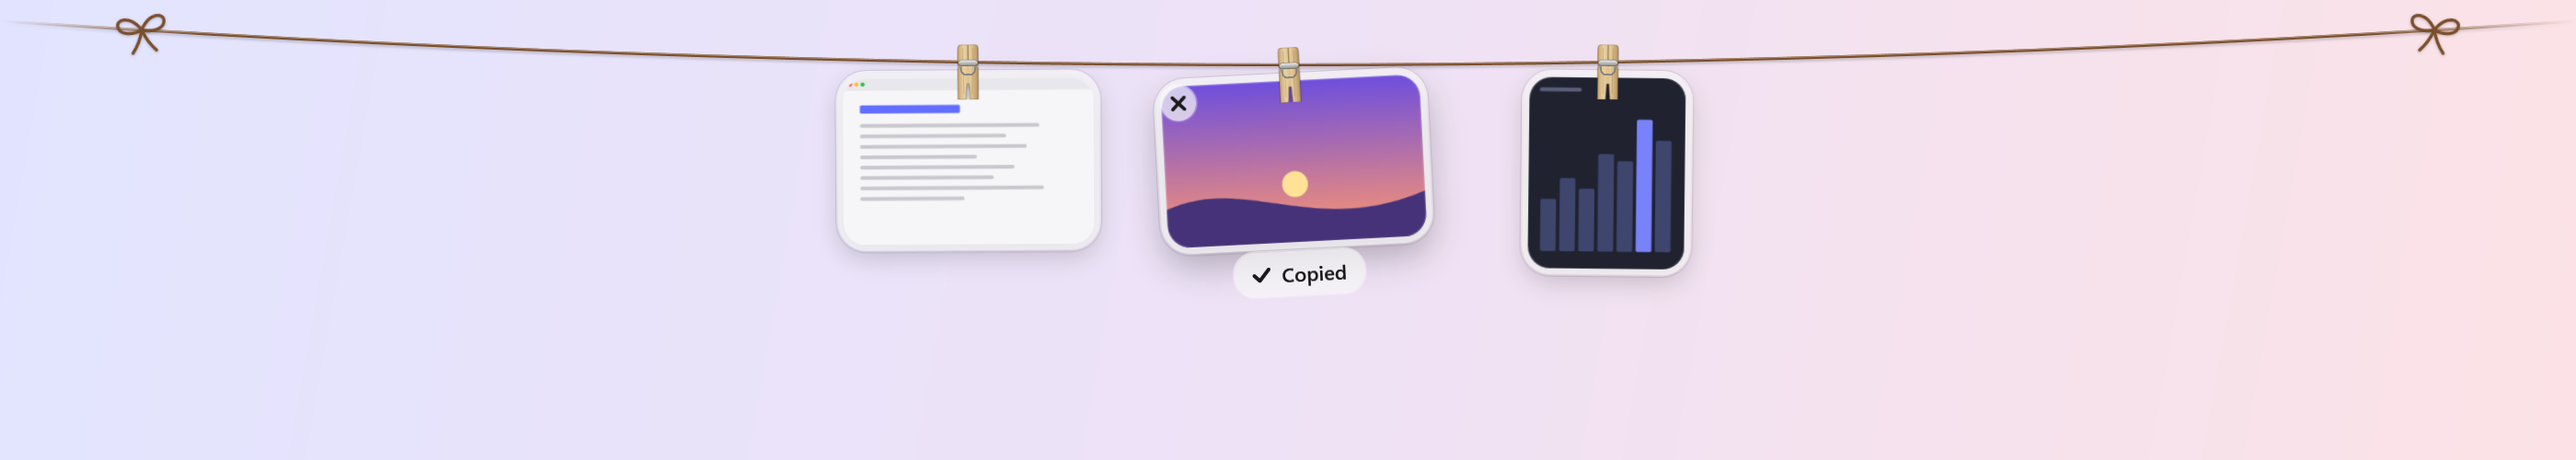
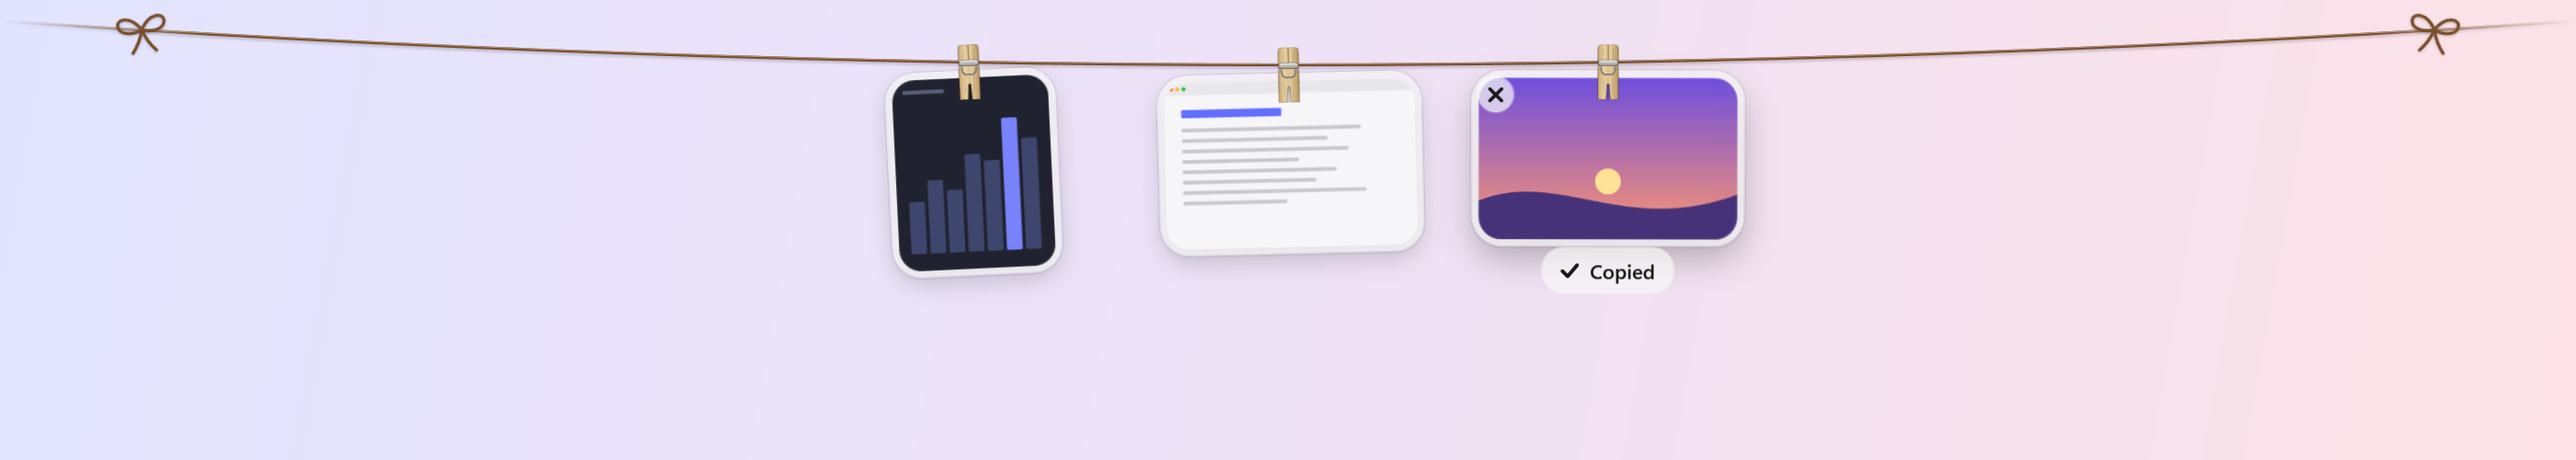
Photos stay where you put them; even spacing is an option
Dragging a photo along the line leaves it exactly where it is dropped, and
its place is remembered across launches as a fraction of the screen width.
A new capture takes the nearest free place to the middle. The setting
"Arrange photos evenly along the line", off by default, restores the
Tendedero behaviour where the others make room.

Changed region(s): [[0.3107, 0.15, 0.6836, 0.63]]

diff --git a/src/Clothesline/UI/LineCanvas.cs b/src/Clothesline/UI/LineCanvas.cs
@@ -18,6 +18,7 @@ public sealed class LineCanvas : Canvas
     private readonly Path _ropeShadow, _ropeCore, _ropeHighlight;
     private Path? _bowLeft, _bowRight;
     private PeggedControl? _held;
+    private int _topZ = 10;
     private bool _ropeDrag;
     private readonly Border _hint;
     private readonly Tween _hintOpacity = new(0);
@@ -194,10 +195,14 @@ public sealed class LineCanvas : Canvas
         // Falling cards keep their slot until they are removed, so the others do not jump early.
         var live = _cards.Where(c => !c.Item.Falling).ToList();
         int count = live.Count;
+        bool even = Settings.Current.AutoArrange;
         for (int i = 0; i < count; i++)
         {
             var card = live[i];
-            double x = Layout.X(i, count, _width);
+            card.RopeYAt ??= x => Layout.RopeY(x, _width);
+            // Spread evenly, or where you put it. A new photo takes the nearest free place to the middle.
+            double x = even ? Layout.X(i, count, _width) : (card.Item.Spot ?? AssignSpot(card, live)) * _width;
+            x = Math.Clamp(x, Layout.CardWidth / 2, Math.Max(Layout.CardWidth / 2, _width - Layout.CardWidth / 2));
             double ropeY = Layout.RopeY(x, _width);
             bool fresh = double.IsNaN(GetTop(card));
             SetTop(card, ropeY - Layout.PinAbove);
@@ -208,6 +213,26 @@ public sealed class LineCanvas : Canvas
         _hint.Measure(new Size(double.PositiveInfinity, double.PositiveInfinity));
         SetLeft(_hint, mid - _hint.DesiredSize.Width / 2);
         SetTop(_hint, Layout.RopeY(mid, _width) + 34 - _hint.DesiredSize.Height / 2);
+    }
+
+    /// <summary>The nearest place to the middle of the line with room for a card, remembered on the photo.</summary>
+    private double AssignSpot(PeggedControl card, List<PeggedControl> live)
+    {
+        var taken = live.Where(c => c != card && c.Item.Spot is not null).Select(c => c.Item.Spot!.Value * _width).ToList();
+        double half = Layout.CardWidth / 2;
+        double best = _width / 2;
+        for (int step = 0; step < 40; step++)
+        {
+            foreach (double candidate in new[] { _width / 2 + step * Layout.Spacing, _width / 2 - step * Layout.Spacing })
+            {
+                if (candidate < half || candidate > _width - half) continue;
+                if (taken.All(t => Math.Abs(t - candidate) >= Layout.Spacing * 0.9)) { best = candidate; goto found; }
+            }
+        }
+        found:
+        double fraction = Math.Clamp(best / _width, 0, 1);
+        _line.SetSpot(card.Item.Id, fraction, save: true);
+        return fraction;
     }
 
     private void DrawRope()
@@ -252,7 +277,15 @@ public sealed class LineCanvas : Canvas
     {
         if (_held != card) return;
         double half = Layout.CardWidth / 2;
-        card.SetTargetX(Math.Clamp(centerX, half, Math.Max(half, _width - half)), snap: true);
+        centerX = Math.Clamp(centerX, half, Math.Max(half, _width - half));
+        card.SetTargetX(centerX, snap: true);
+        if (!Settings.Current.AutoArrange)
+        {
+            // It stays where you put it; nothing else moves.
+            _line.SetSpot(card.Item.Id, centerX / _width, save: false);
+            StartTicking();
+            return;
+        }
         var live = _cards.Where(c => !c.Item.Falling).ToList();
         int from = live.IndexOf(card);
         if (from < 0) return;
@@ -272,7 +305,9 @@ public sealed class LineCanvas : Canvas
     {
         if (_held != card) return;
         _held = null;
-        SetZIndex(card, 2);
+        // The last one moved lies on top of any it was dropped against.
+        SetZIndex(card, Settings.Current.AutoArrange ? 2 : ++_topZ);
+        if (!Settings.Current.AutoArrange) _line.SetSpot(card.Item.Id, card.TargetX / _width, save: true);
         Relayout(snap: false);
         StartTicking();
     }

diff --git a/src/Clothesline/Core/Line.cs b/src/Clothesline/Core/Line.cs
@@ -26,6 +26,8 @@ public sealed class Pegged
     /// <summary>Kept on purpose: never pushed off by newer captures.</summary>
     public bool Pinned { get; set; }
     public DateTime HungAt { get; } = DateTime.Now;
+    /// <summary>Where it hangs along the line, as a fraction of the width, when photos are not arranged automatically.</summary>
+    public double? Spot { get; set; }
 
     public Pegged(string path, Thumbnail thumb)
     {
@@ -147,6 +149,15 @@ public sealed class Line
             bool quiet = n > 0;
             Later(0.06 * n, () => Drop(id, quiet));
         }
+    }
+
+    /// <summary>Remembers where a photo was put by hand.</summary>
+    public void SetSpot(Guid id, double fraction, bool save)
+    {
+        var item = Find(id);
+        if (item is null) return;
+        item.Spot = Math.Clamp(fraction, 0, 1);
+        if (save) Save();
     }
 
     /// <summary>Moves a photo to another place on the line. `liveIndex` counts only photos that are not falling.</summary>
@@ -341,6 +352,7 @@ public sealed class Line
         if (!_persist) return;
         Settings.Current.Pegged = _items.Where(i => !i.Falling).Select(i => i.Path).ToList();
         Settings.Current.PinnedPaths = _items.Where(i => !i.Falling && i.Pinned).Select(i => i.Path).ToList();
+        Settings.Current.Spots = _items.Where(i => !i.Falling && i.Spot is not null).ToDictionary(i => i.Path, i => i.Spot!.Value, StringComparer.OrdinalIgnoreCase);
         Settings.Current.Save();
     }
 
@@ -351,6 +363,7 @@ public sealed class Line
             {
                 item.Used = true;
                 item.Pinned = Settings.Current.PinnedPaths.Contains(path, StringComparer.OrdinalIgnoreCase);
+                if (Settings.Current.Spots.TryGetValue(path, out var spot)) item.Spot = spot;
             }
     }
 

diff --git a/src/Clothesline/UI/Strings.cs b/src/Clothesline/UI/Strings.cs
@@ -89,6 +89,8 @@ public static class Strings
     public static string RopeColor => L("Line colour");
     public static string PegStyle => L("Clothespins");
     public static string Bows => L("Bows at the ends of the line");
+    public static string AutoArrange => L("Arrange photos evenly along the line");
+    public static string AutoArrangeTip => L("Off, each photo stays where you put it");
     public static string Appearance => L("Appearance");
     public static string LanguageLabel => L("Language");
     public static string Auto => L("Follow Windows");
@@ -174,6 +176,8 @@ public static class Strings
         ["Line colour"] = "لون الحبل",
         ["Clothespins"] = "المشابك",
         ["Bows at the ends of the line"] = "عُقد على طرفَي الحبل",
+        ["Arrange photos evenly along the line"] = "ترتيب الصور بالتساوي على طول الحبل",
+        ["Off, each photo stays where you put it"] = "عند الإيقاف، تبقى كل صورة حيث وضعتها",
         ["Appearance"] = "السمة",
         ["Language"] = "اللغة",
         ["Follow Windows"] = "حسب Windows",

diff --git a/src/Clothesline/UI/PeggedControl.cs b/src/Clothesline/UI/PeggedControl.cs
@@ -271,6 +271,9 @@ public sealed class PeggedControl : Canvas
     }
 
     public double CenterX => _x.Value;
+    public double TargetX => _x.Target;
+    /// <summary>The rope sags, so the card follows it up and down as it moves along.</summary>
+    public Func<double, double>? RopeYAt { get; set; }
 
     /// <summary>The card's rectangle in canvas coordinates, ignoring the tilt. Used to decide where the pointer counts.</summary>
     public Rect CardRect
@@ -367,6 +370,12 @@ public sealed class PeggedControl : Canvas
         _copiedOpacity.Step(dt); _copiedOffset.Step(dt); _shadow.Step(dt);
 
         SetLeft(this, _x.Value - Layout.CardWidth / 2);
+        if (RopeYAt is not null)
+        {
+            double ropeY = RopeYAt(_x.Value);
+            SetTop(this, ropeY - Layout.PinAbove);
+            Height = Layout.PanelHeight - ropeY;
+        }
         _rotate.Angle = _swing.Value + Item.Tilt;
         _drop.Y = _arrive.Value;
         Opacity = Item.Falling || Item.Flying ? 0 : _opacity.Value;

diff --git a/src/Clothesline/Core/Settings.cs b/src/Clothesline/Core/Settings.cs
@@ -43,6 +43,10 @@ public sealed class Settings
     /// <summary>wood, metal, mixed, red, blue, green or yellow.</summary>
     public string PegStyle { get; set; } = "wood";
     public bool Bows { get; set; } = true;
+    /// <summary>Spread the photos evenly along the line. Off, each stays where you put it.</summary>
+    public bool AutoArrange { get; set; }
+    /// <summary>Where each photo hangs, as a fraction of the width of the screen, by file path.</summary>
+    public Dictionary<string, double> Spots { get; set; } = new(StringComparer.OrdinalIgnoreCase);
     /// <summary>auto, light or dark.</summary>
     public string Appearance { get; set; } = "auto";
     /// <summary>auto, en or ar.</summary>

diff --git a/src/Clothesline/AppController.cs b/src/Clothesline/AppController.cs
@@ -195,7 +195,7 @@ public sealed class AppController : IDisposable
         int index = live.IndexOf(item);
         if (index < 0) return null;
         double width = _panel.Canvas.ActualWidth;
-        double x = Layout.X(index, live.Count, width);
+        double x = card.TargetX > 0 ? card.TargetX : Layout.X(index, live.Count, width);
         double viewTop = Layout.RopeY(x, width) - Layout.PinAbove;
         double cardTop = viewTop + Layout.CardOffsetBelowTop;
         var size = Layout.CardSize(item.PixelWidth, item.PixelHeight);

diff --git a/src/Clothesline/UI/SettingsWindow.cs b/src/Clothesline/UI/SettingsWindow.cs
@@ -99,6 +99,7 @@ public sealed class SettingsWindow : Window
         stack.Children.Add(Row(Strings.PegStyle, pegs));
 
         stack.Children.Add(Check(Strings.Bows, null, s.Bows, v => s.Bows = v));
+        stack.Children.Add(Check(Strings.AutoArrange, Strings.AutoArrangeTip, s.AutoArrange, v => s.AutoArrange = v));
 
         var appearance = Choice(new[] { ("auto", Strings.Auto), ("light", Strings.Light), ("dark", Strings.Dark) }, s.Appearance, v => s.Appearance = v);
         stack.Children.Add(Row(Strings.Appearance, appearance));

diff --git a/README.md b/README.md
@@ -36,7 +36,7 @@ they land, sway in an occasional breeze, and fall off the screen when you let th
 | Click | Copy the image. Paste it anywhere, as a picture or as a file. |
 | Press and hold | Open it in your image editor (Paint, unless you changed it). The line shows the edited version when you save. |
 | Double click | Open it in Photos. |
-| Drag along the line | Reorder the photos. |
+| Drag along the line | Put the photo where you want it. It stays there. With *Arrange photos evenly* on, the others make room instead. |
 | Drag the line itself | Move the whole line up or down the screen, below your tabs if you like. |
 | Drag into an app | Send a copy. It stays on the line. |
 | Drag into a folder | Keep it there. It leaves the line. |
